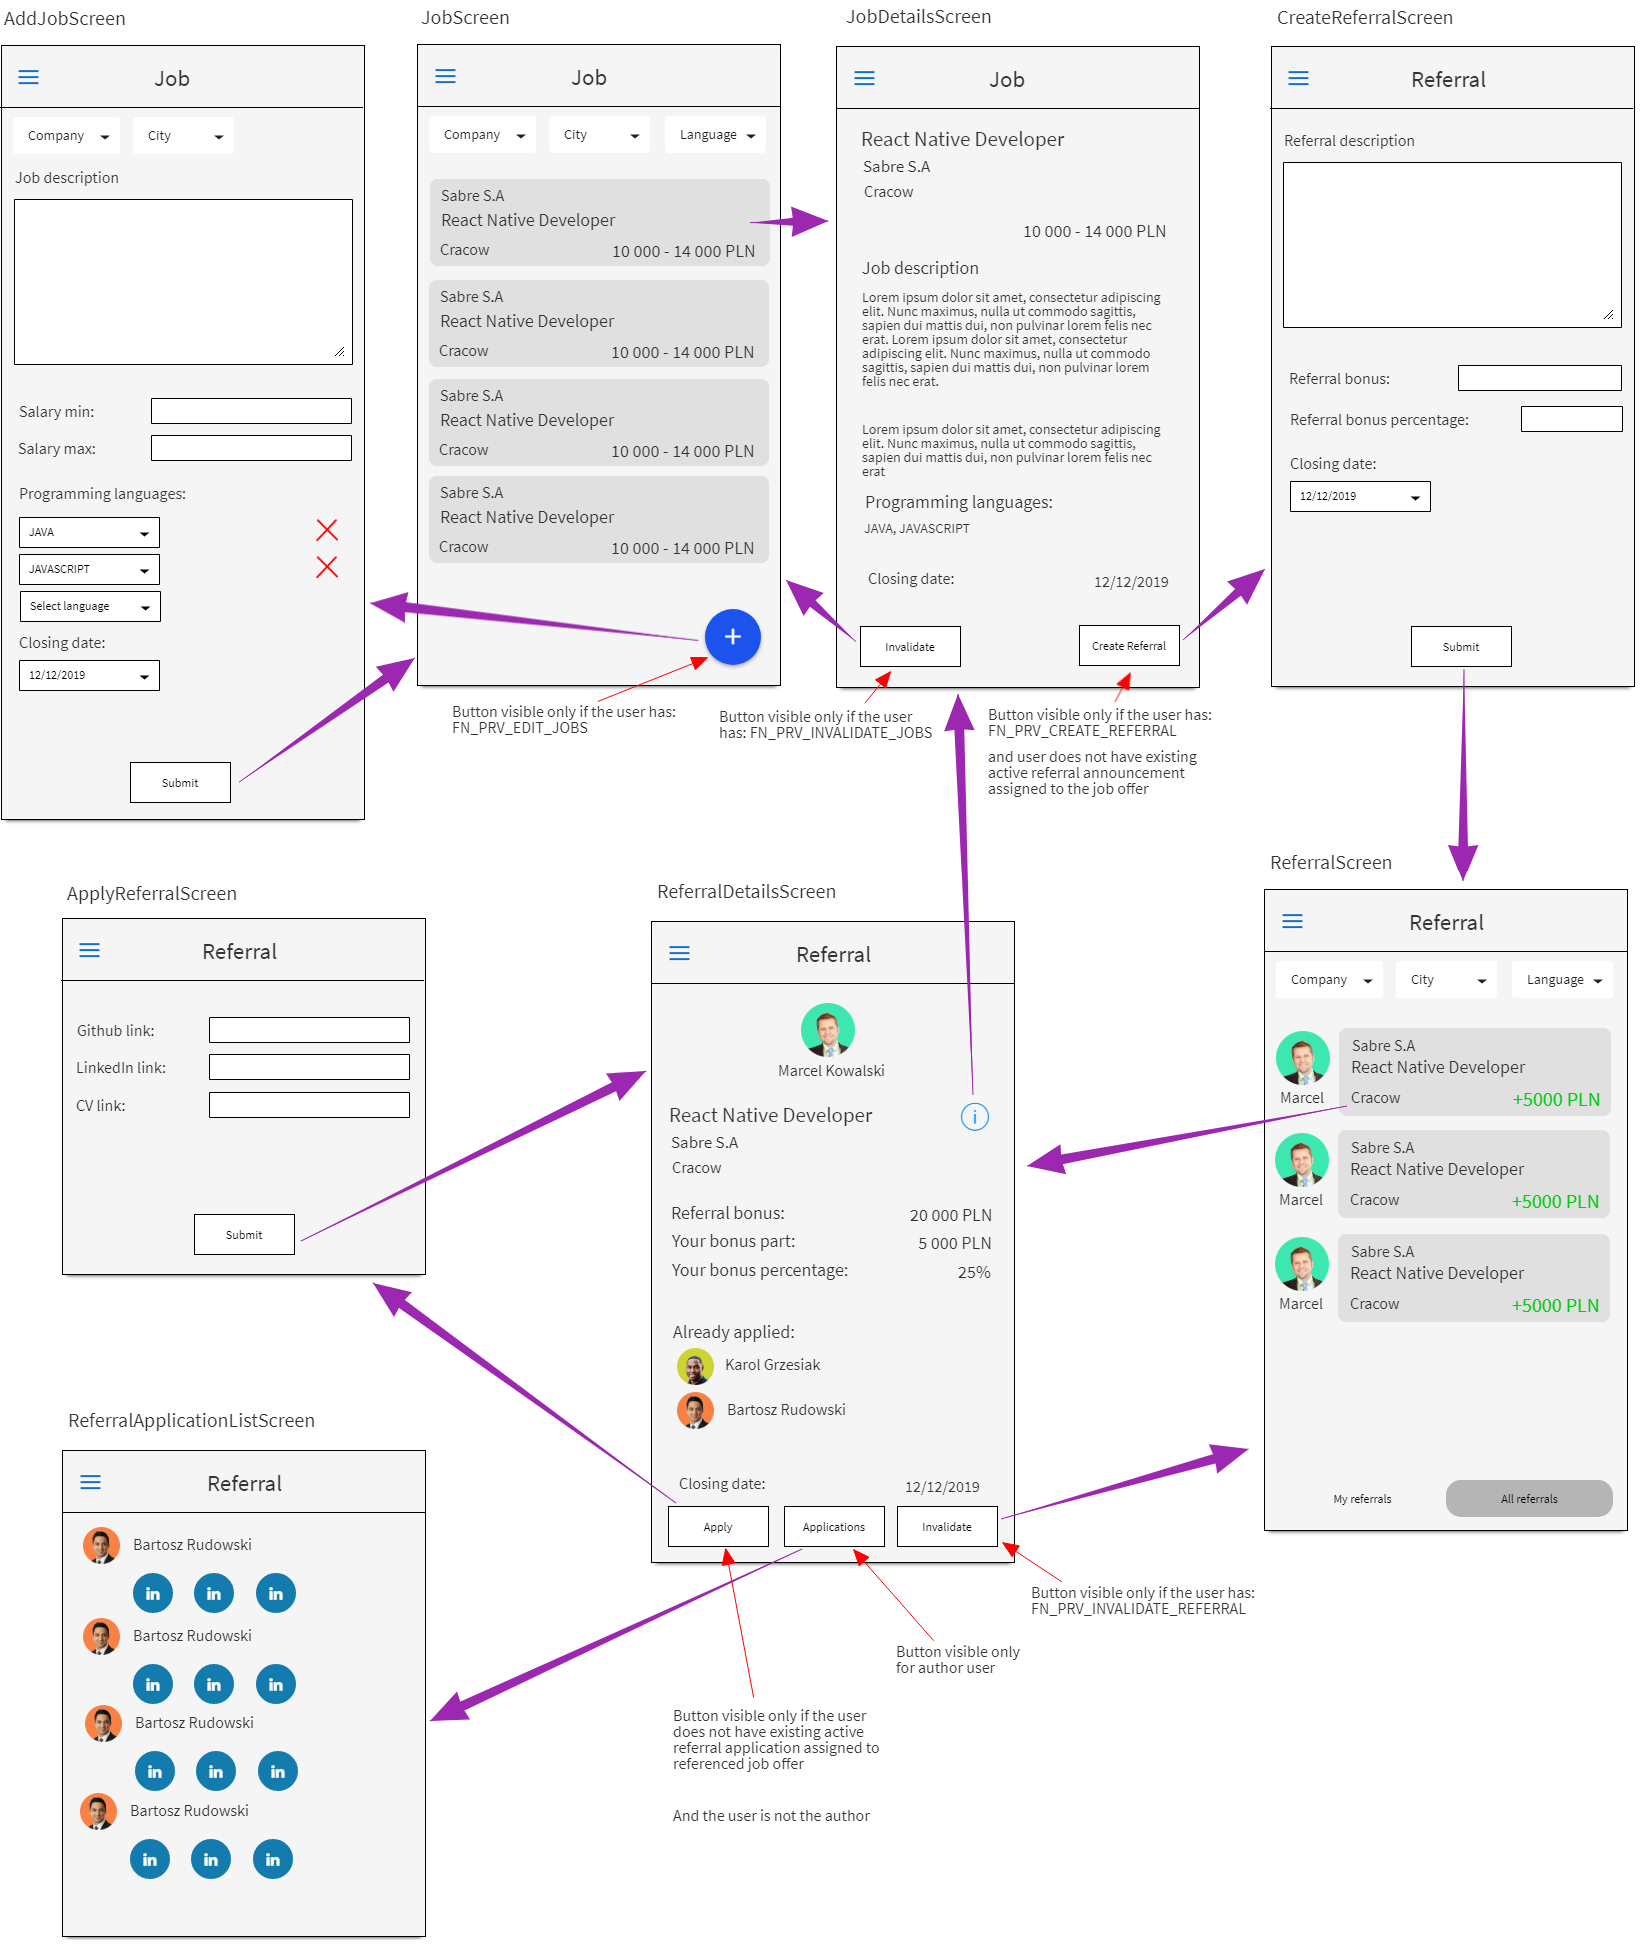
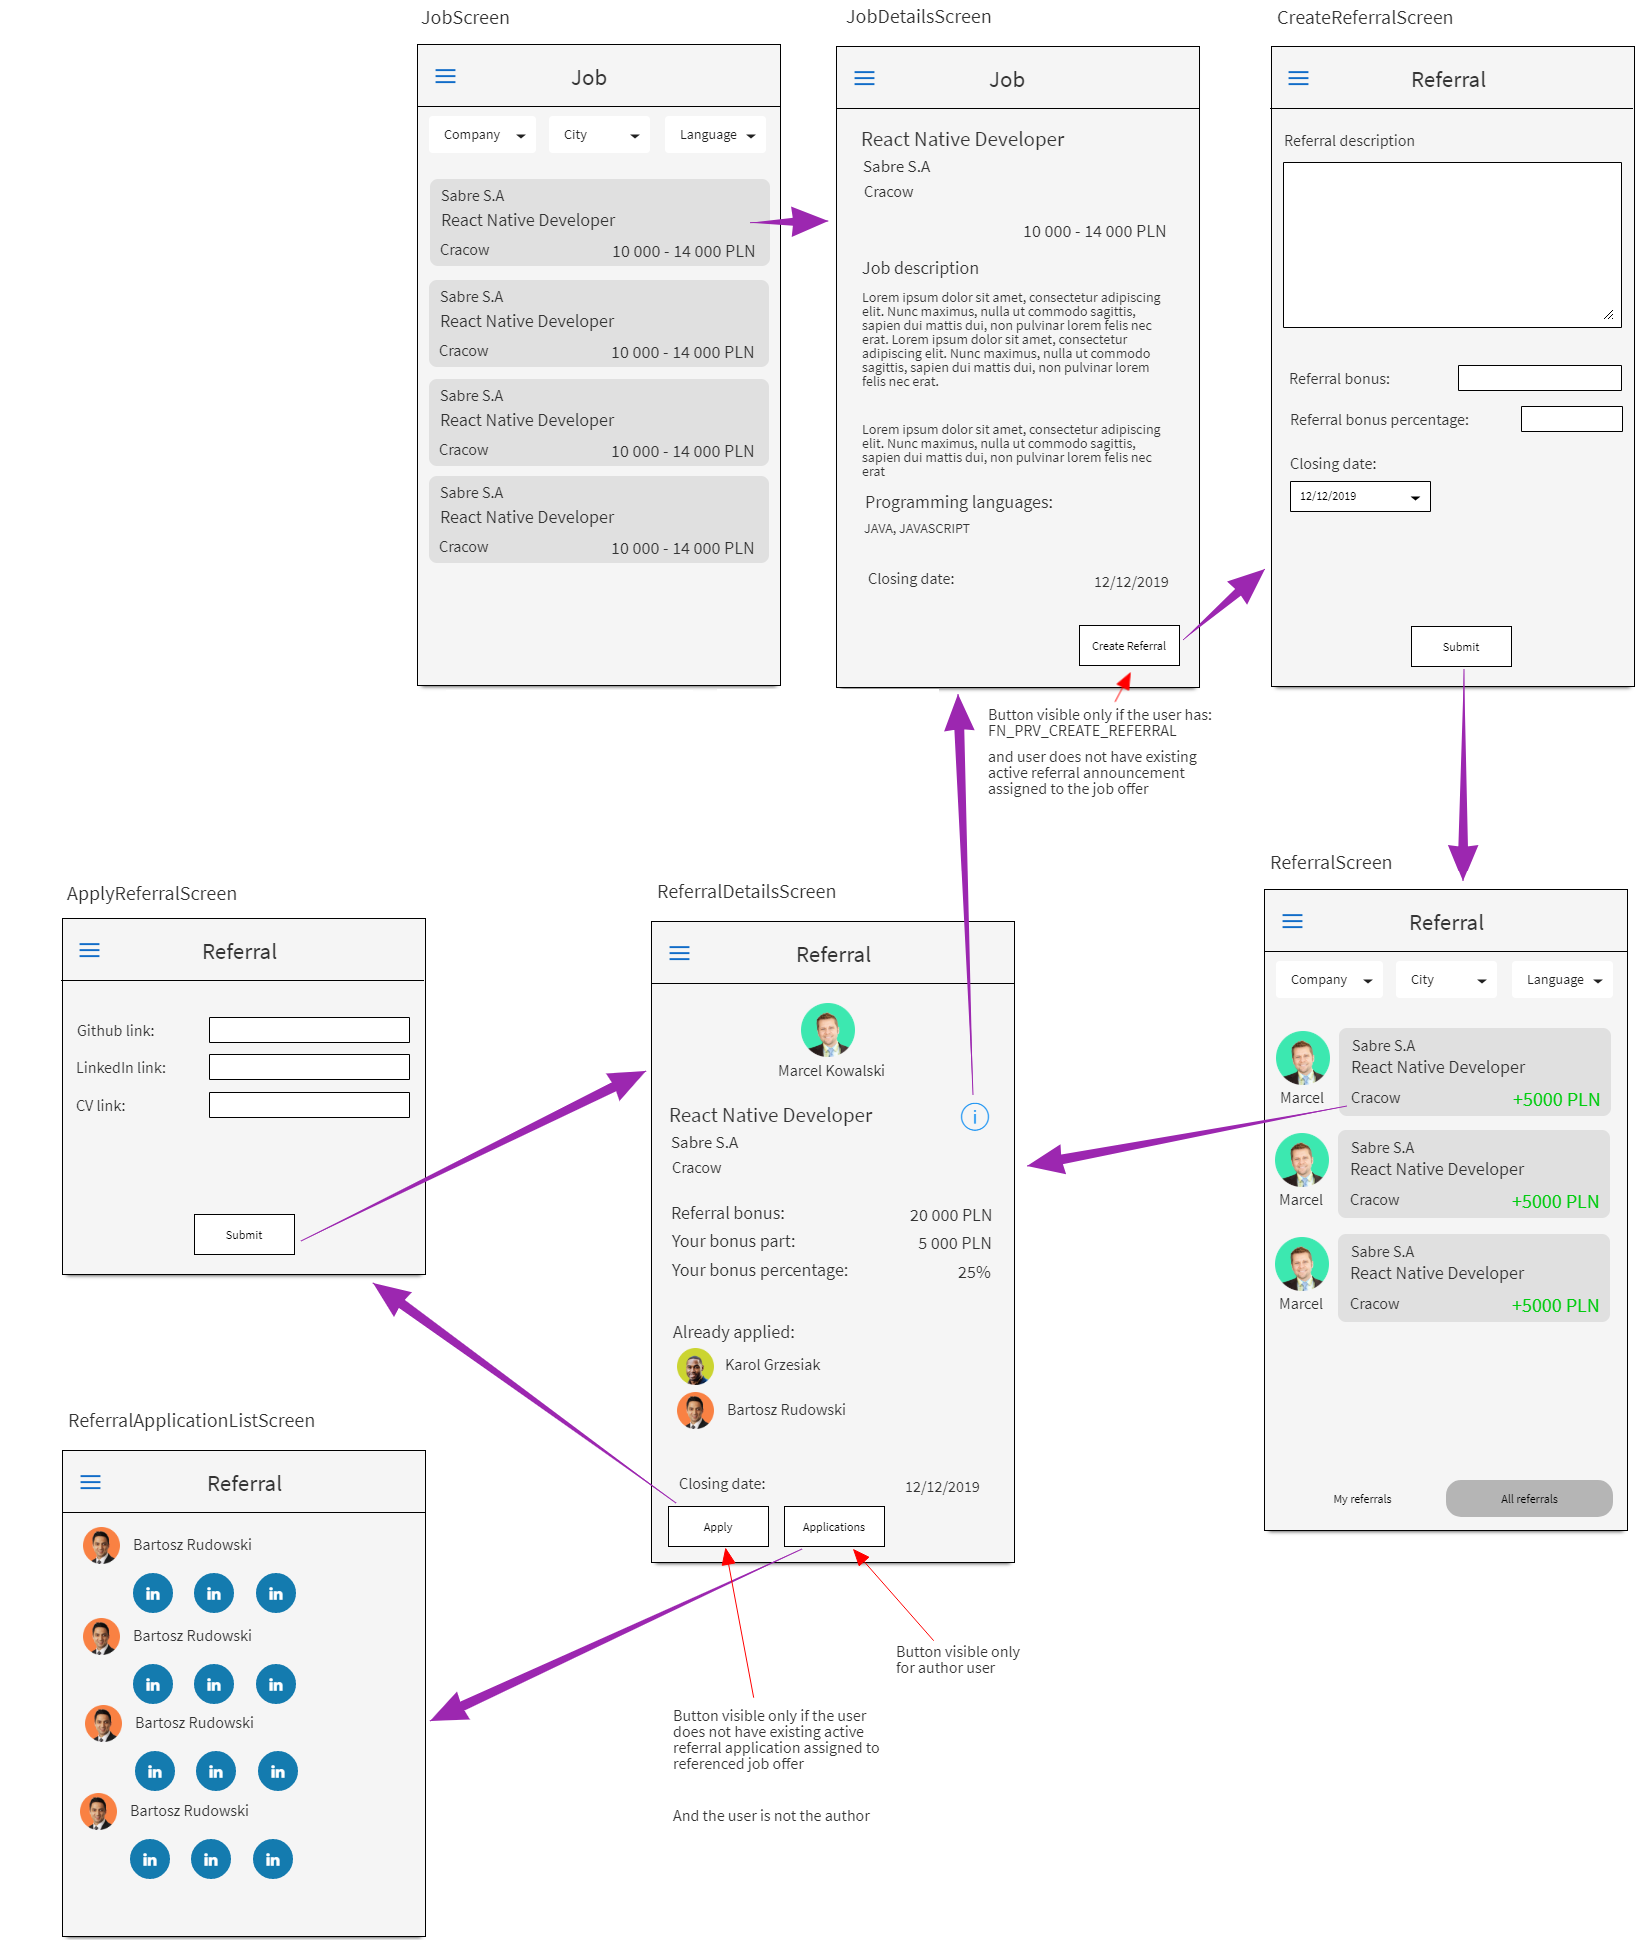
remove AddJobScreen, invalidate buttons

diff --git a/hydra_aimo.tex b/hydra_aimo.tex
@@ -63,9 +63,9 @@ Daniel Poznański\\
 \section{Logowanie za pomocą konta Google}
 \section{Dodaj wpis do Wiki}
 \section{Zagłosuj na wpis na Wiki}
-\section{Dodaj ogłoszenie o pracy}
 \section{Dodaj RA}
 \section{Złóż aplikację na RA}
+\section{Pokaż złożone applikacje na RA}
 
 
 \chapter{Architektura systemu}
